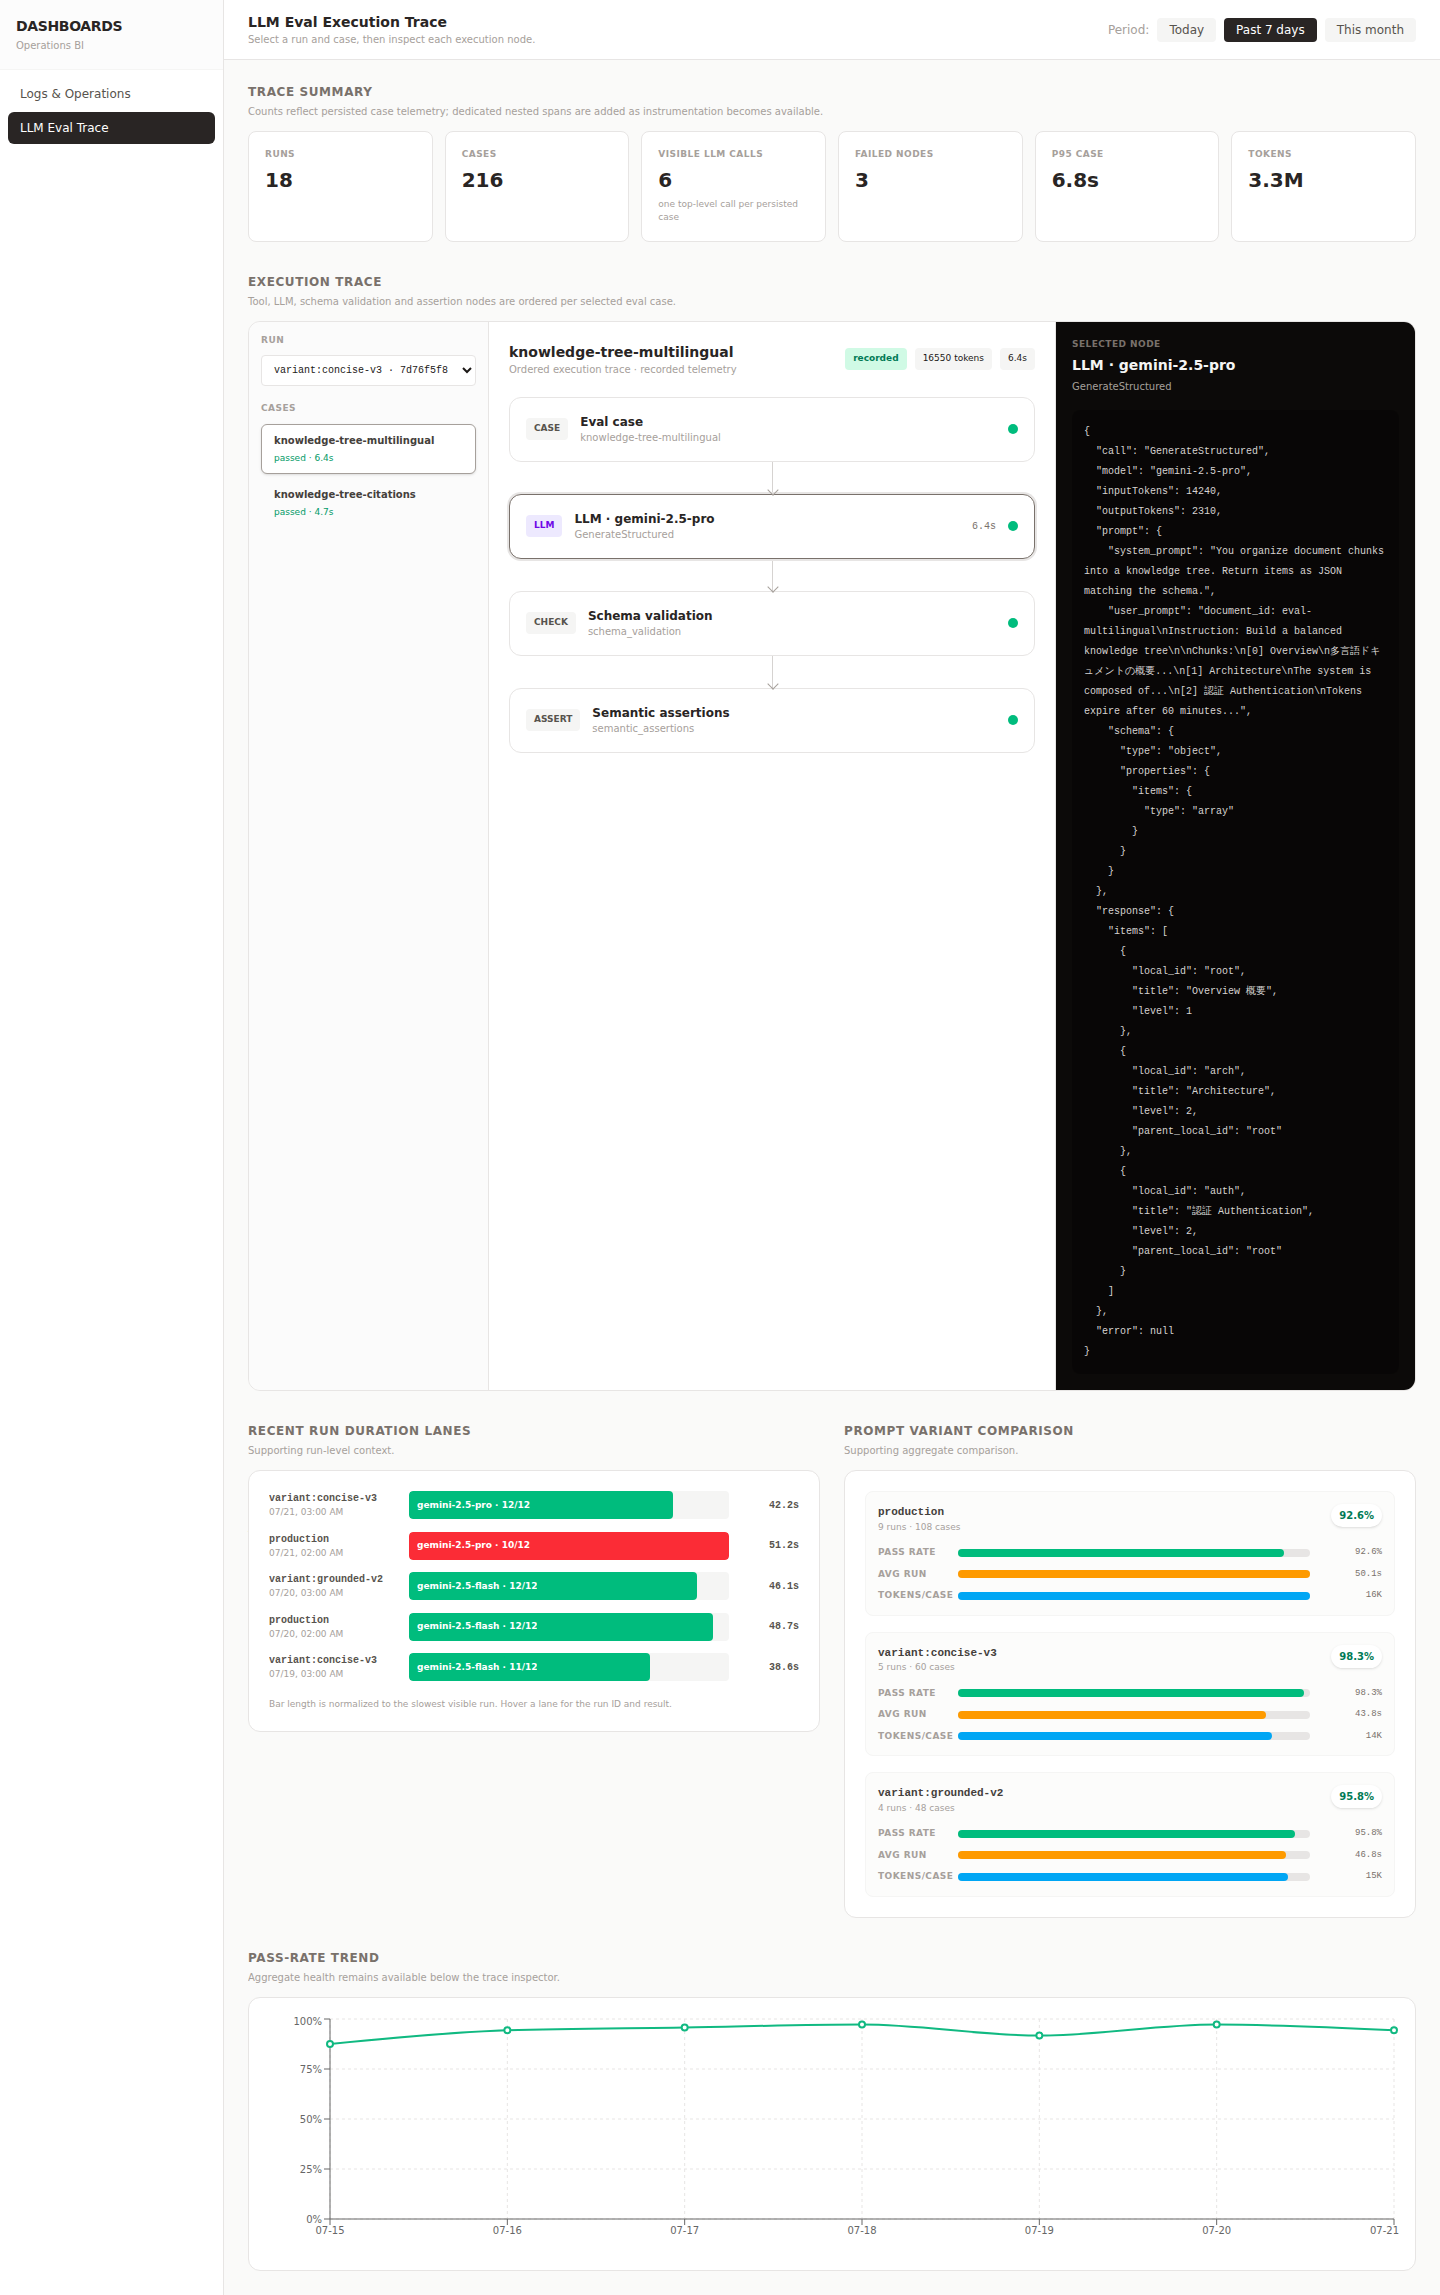
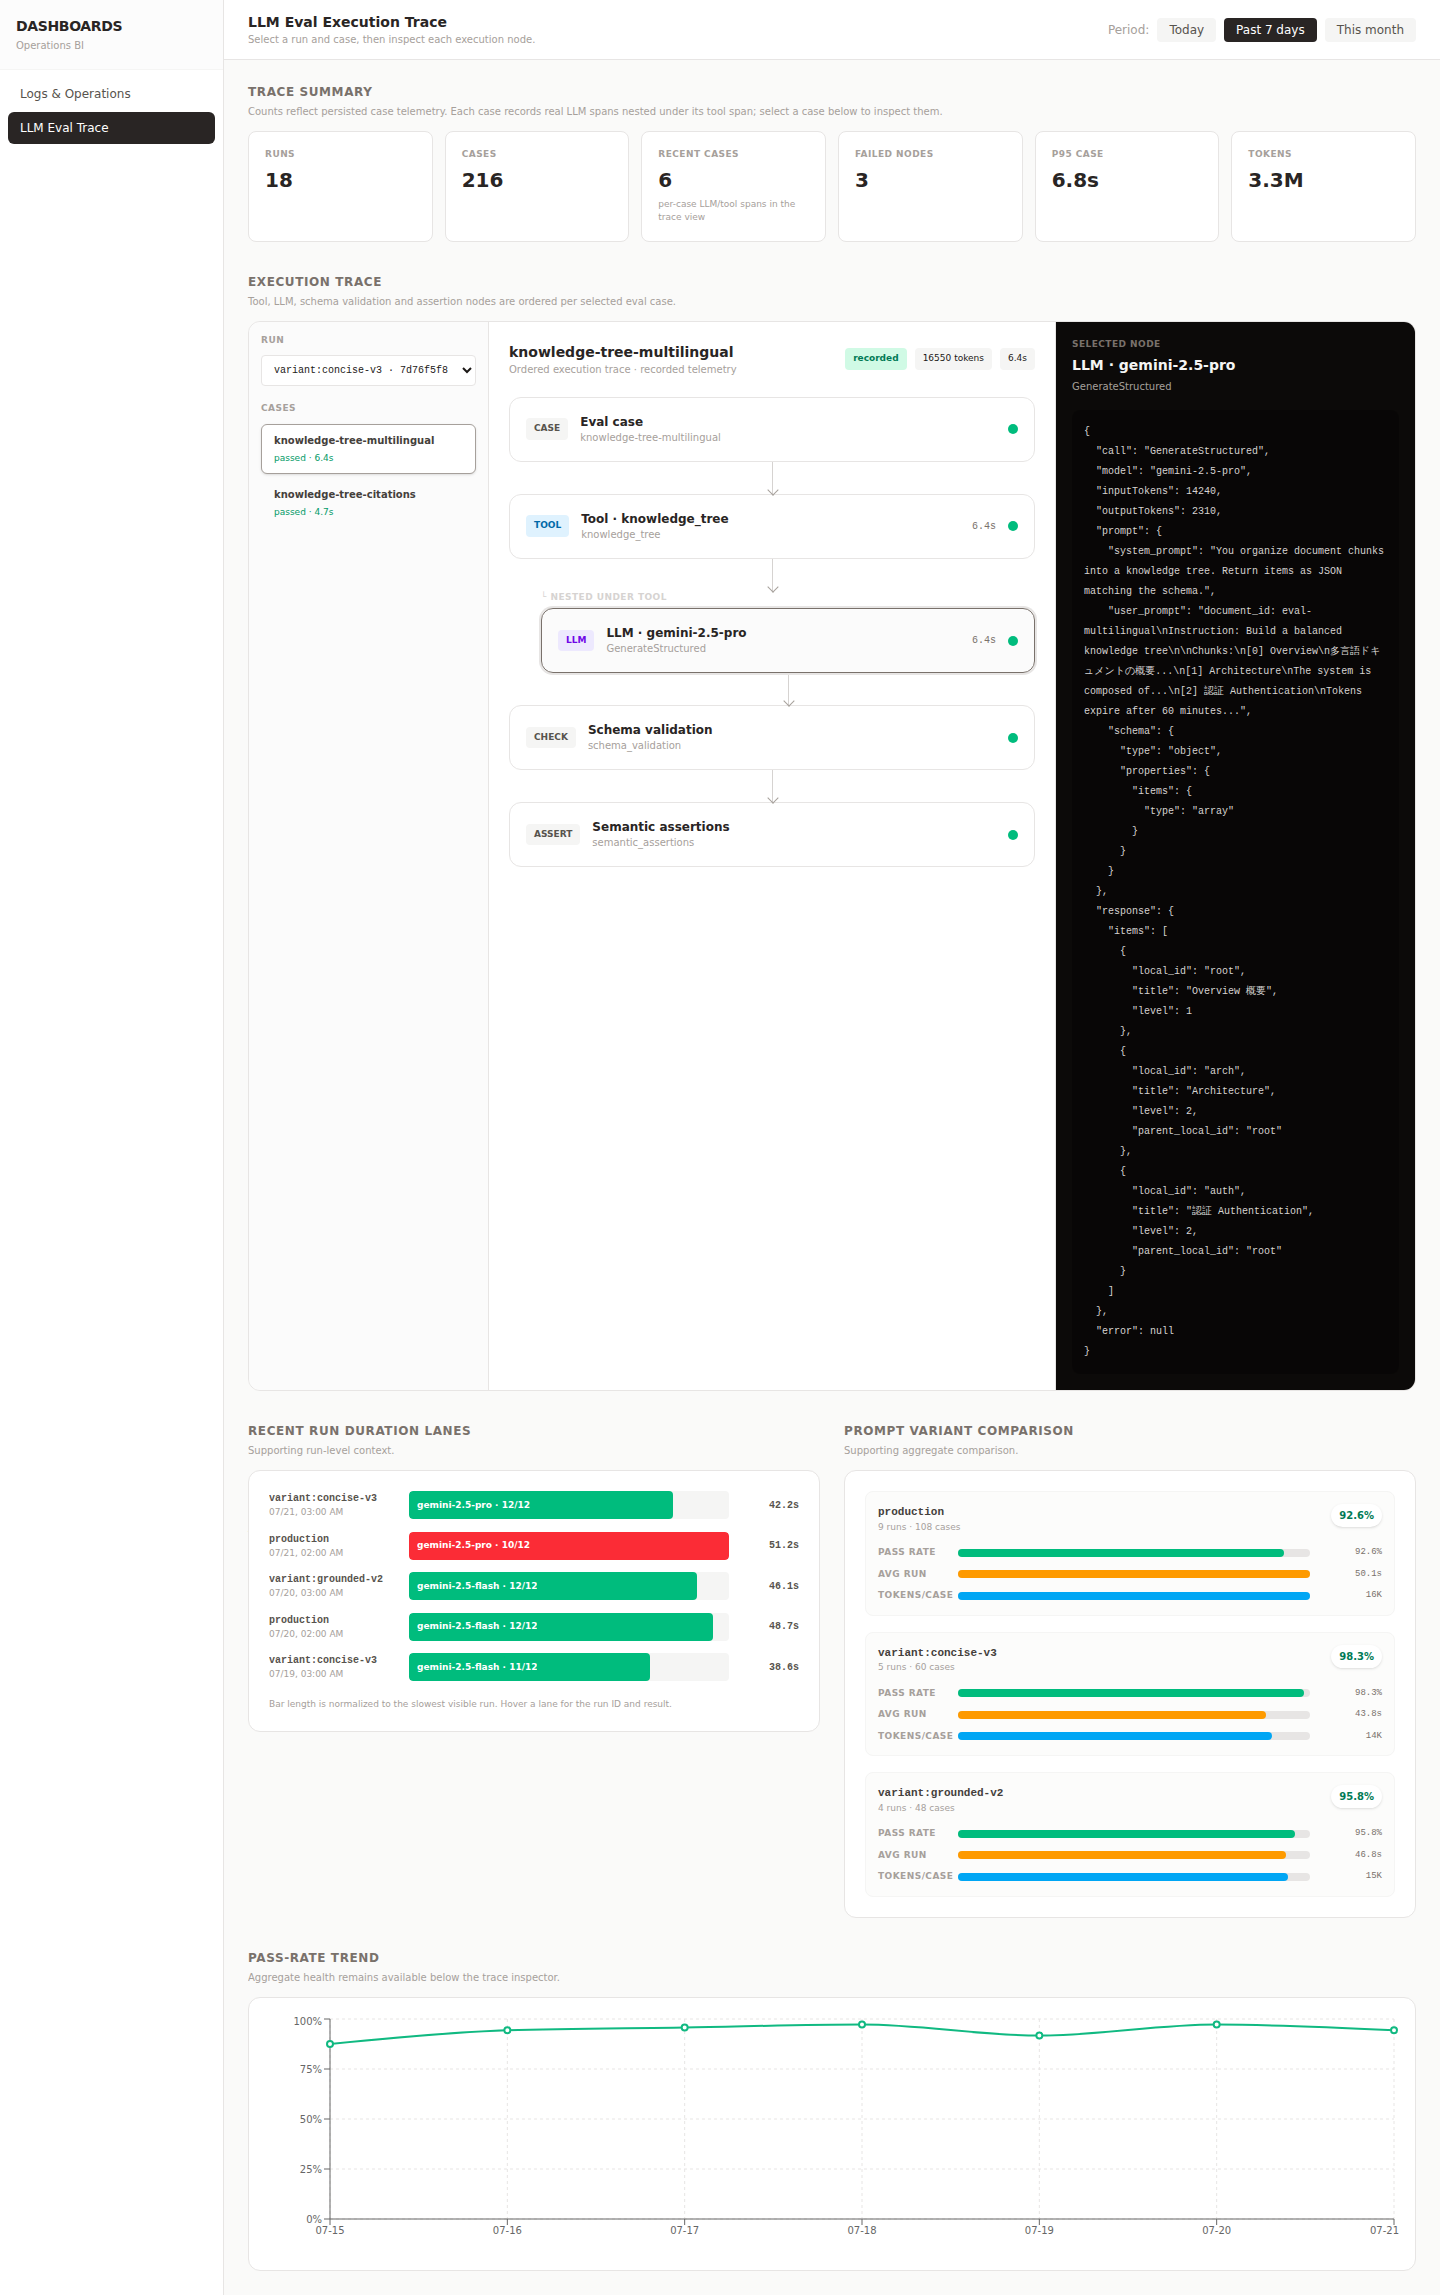
feat(eval): nest LLM spans under their tool span
Trace events are no longer flat. The runner opens a "tool" span before
running the tool and closes it after, and the TraceCollector now carries a
span stack: any LLM call recorded while a span is open inherits it as
parent_event_id. So a case's persisted trace is now a tree —

  tool: knowledge_tree
    └─ llm: GenerateStructured
  schema_validation        (top-level, post-tool)
  semantic_assertions      (top-level, post-tool)

- TraceCollector: BeginSpan/EndSpan + a stack; Record inherits the innermost
  open span as parent unless one is set explicitly.
- runCase opens the tool span around tool.Run; validation/assertion are
  recorded after it closes, so they stay top-level siblings.
- EvalExecutionTrace derives depth from the parent chain and indents nested
  nodes ("nested under tool").
- summary copy updated: nested spans are recorded now, not "coming soon".

Changed region(s): [[0.375, 0.2166, 0.5312, 0.3712], [0.6875, 0.2475, 0.7188, 0.3094], [0.4688, 0.0619, 0.5312, 0.0928]]

diff --git a/apps/monitor/ui/src/components/eval/EvalExecutionTrace.tsx b/apps/monitor/ui/src/components/eval/EvalExecutionTrace.tsx
@@ -13,6 +13,7 @@ type TraceNode = {
   subtitle: string;
   status: 'ok' | 'error' | 'unknown';
   durationMs?: number;
+  depth: number;
   details: Record<string, unknown>;
 };
 
@@ -34,17 +35,17 @@ function buildReconstructedNodes(row: EvalCaseRow): TraceNode[] {
   const executionFailed = Boolean(row.error) && !row.output;
   return [
     {
-      id: 'case', kind: 'case', title: 'Eval case', subtitle: row.caseName, status: 'ok',
+      id: 'case', kind: 'case', title: 'Eval case', subtitle: row.caseName, status: 'ok', depth: 0,
       details: { runId: row.runId, caseName: row.caseName, promptSource: row.promptSource, failedInput: row.failedInput },
     },
     {
       id: 'tool', kind: 'tool', title: `Tool · ${row.tool}`, subtitle: 'Top-level eval tool invocation',
-      status: executionFailed ? 'error' : 'ok', durationMs: row.durationMs,
+      status: executionFailed ? 'error' : 'ok', durationMs: row.durationMs, depth: 0,
       details: { tool: row.tool, output: row.output, error: row.error || null },
     },
     {
       id: 'llm', kind: 'llm', title: `LLM · ${row.model || 'unknown model'}`, subtitle: row.promptSource,
-      status: executionFailed ? 'error' : 'ok', durationMs: row.durationMs,
+      status: executionFailed ? 'error' : 'ok', durationMs: row.durationMs, depth: 1,
       details: {
         model: row.model, inputTokens: row.inputTokens, outputTokens: row.outputTokens,
         prompt: 'Not recorded — run predates trace instrumentation',
@@ -53,12 +54,12 @@ function buildReconstructedNodes(row: EvalCaseRow): TraceNode[] {
     },
     {
       id: 'validation', kind: 'validation', title: 'Schema validation', subtitle: row.schemaValid ? 'Output contract satisfied' : 'Output contract failed',
-      status: row.schemaValid ? 'ok' : 'error',
+      status: row.schemaValid ? 'ok' : 'error', depth: 0,
       details: { schemaValid: row.schemaValid, error: !row.schemaValid ? row.error : null },
     },
     {
       id: 'assertion', kind: 'assertion', title: 'Semantic assertions', subtitle: row.passed ? 'Expectations passed' : 'Expectation failed',
-      status: row.passed ? 'ok' : 'error',
+      status: row.passed ? 'ok' : 'error', depth: 0,
       details: { passed: row.passed, error: !row.passed ? row.error : null, output: row.output },
     },
   ];
@@ -69,10 +70,15 @@ function buildReconstructedNodes(row: EvalCaseRow): TraceNode[] {
 // prompt/response, tokens and duration.
 function buildTraceNodes(row: EvalCaseRow, events: EvalTraceEvent[]): TraceNode[] {
   const caseNode: TraceNode = {
-    id: 'case', kind: 'case', title: 'Eval case', subtitle: row.caseName, status: 'ok',
+    id: 'case', kind: 'case', title: 'Eval case', subtitle: row.caseName, status: 'ok', depth: 0,
     details: { runId: row.runId, caseIndex: row.caseIndex, caseName: row.caseName, promptSource: row.promptSource },
   };
+  // Depth from parent chain. Events arrive parent-first (ordered by sequence),
+  // so a parent's depth is always known before its children.
+  const depthById = new Map<string, number>();
   const eventNodes = events.map((ev): TraceNode => {
+    const depth = ev.parentEventId && depthById.has(ev.parentEventId) ? depthById.get(ev.parentEventId)! + 1 : 0;
+    depthById.set(ev.eventId, depth);
     const status: TraceNode['status'] = ev.error ? 'error' : 'ok';
     const title =
       ev.kind === 'llm' ? `LLM · ${ev.model || 'unknown model'}`
@@ -88,6 +94,7 @@ function buildTraceNodes(row: EvalCaseRow, events: EvalTraceEvent[]): TraceNode[
       subtitle: ev.error ? ev.error : ev.name,
       status,
       durationMs: ev.kind === 'llm' || ev.kind === 'tool' ? ev.durationMs : undefined,
+      depth,
       details,
     };
   });
@@ -170,8 +177,9 @@ export function EvalExecutionTrace({ runs, cases }: { runs: EvalRunRow[]; cases:
           </div>
           <div className="mx-auto max-w-xl">
             {nodes.map((node, index) => (
-              <div key={node.id}>
-                <button onClick={() => setNodeId(node.id)} className={`w-full rounded-xl border p-4 text-left transition ${selectedNode?.id === node.id ? 'border-stone-500 ring-2 ring-stone-200' : 'border-stone-200 hover:border-stone-300'} ${node.status === 'error' ? 'bg-red-50/60' : 'bg-white'}`}>
+              <div key={node.id} style={{ marginLeft: `${node.depth * 32}px` }}>
+                {node.depth > 0 && <p className="mb-1 text-[9px] font-semibold uppercase tracking-wider text-stone-300">└ nested under {node.kind === 'llm' ? 'tool' : 'parent'}</p>}
+                <button onClick={() => setNodeId(node.id)} className={`w-full rounded-xl border p-4 text-left transition ${selectedNode?.id === node.id ? 'border-stone-500 ring-2 ring-stone-200' : 'border-stone-200 hover:border-stone-300'} ${node.status === 'error' ? 'bg-red-50/60' : node.depth > 0 ? 'bg-stone-50/70' : 'bg-white'}`}>
                   <div className="flex items-center gap-3"><span className={`rounded px-2 py-1 text-[9px] font-bold ${node.kind === 'llm' ? 'bg-violet-100 text-violet-700' : node.kind === 'tool' ? 'bg-sky-100 text-sky-700' : 'bg-stone-100 text-stone-600'}`}>{kindLabel[node.kind]}</span><div className="min-w-0 flex-1"><p className="text-xs font-bold text-stone-800">{node.title}</p><p className="truncate text-[10px] text-stone-400">{node.subtitle}</p></div>{node.durationMs !== undefined && <span className="font-mono text-[10px] text-stone-500">{fmtMs(node.durationMs)}</span>}<span className={`h-2.5 w-2.5 rounded-full ${node.status === 'error' ? 'bg-red-500' : node.status === 'ok' ? 'bg-emerald-500' : 'bg-stone-300'}`} /></div>
                 </button>
                 {index < nodes.length - 1 && <div className="mx-auto h-8 w-px bg-stone-300"><div className="relative top-6 -left-[3px] h-2 w-2 rotate-45 border-b border-r border-stone-400" /></div>}

diff --git a/apps/monitor/ui/src/components/EvalDashboard.tsx b/apps/monitor/ui/src/components/EvalDashboard.tsx
@@ -105,11 +105,11 @@ export function EvalDashboard() {
         <div className="flex-1 overflow-y-auto p-6">
           {error && <p className="mb-4 rounded-lg border border-red-200 bg-red-50 px-4 py-3 text-sm text-red-700">{error}</p>}
           {loading || !data ? <p className="py-12 text-center text-sm text-stone-400">Loading eval traces…</p> : <>
-            <Section title="Trace summary" detail="Counts reflect persisted case telemetry; dedicated nested spans are added as instrumentation becomes available.">
+            <Section title="Trace summary" detail="Counts reflect persisted case telemetry. Each case records real LLM spans nested under its tool span; select a case below to inspect them.">
               <div className="grid grid-cols-2 gap-3 lg:grid-cols-6">
                 <Stat label="Runs" value={fmtNumber(data.totalRuns)} />
                 <Stat label="Cases" value={fmtNumber(data.totalCases)} />
-                <Stat label="Visible LLM calls" value={fmtNumber(llmCalls)} detail="one top-level call per persisted case" />
+                <Stat label="Recent cases" value={fmtNumber(llmCalls)} detail="per-case LLM/tool spans in the trace view" />
                 <Stat label="Failed nodes" value={fmtNumber(failedNodes)} />
                 <Stat label="p95 case" value={fmtMs(data.p95CaseDurationMs)} />
                 <Stat label="Tokens" value={fmtNumber(data.inputTokens + data.outputTokens)} />

diff --git a/apps/eval/runner/trace.go b/apps/eval/runner/trace.go
@@ -31,10 +31,16 @@ type TraceEvent struct {
 
 // TraceCollector collects events for the currently executing case. Eval cases
 // are intentionally executed sequentially, so a single collector can be reused.
+//
+// It maintains a span stack so nested work is recorded with the right parent:
+// a tool span is opened before the tool runs, and every LLM call the tool makes
+// while that span is open is recorded as its child (parent_event_id). This is
+// what turns the flat llm/validation/assertion list into a real tool → llm tree.
 type TraceCollector struct {
 	mu       sync.Mutex
 	sequence int
 	events   []TraceEvent
+	stack    []string // open parent span IDs, innermost last
 }
 
 func (c *TraceCollector) BeginCase() {
@@ -42,17 +48,65 @@ func (c *TraceCollector) BeginCase() {
 	defer c.mu.Unlock()
 	c.sequence = 0
 	c.events = nil
+	c.stack = nil
 }
 
 func (c *TraceCollector) Record(event TraceEvent) {
 	c.mu.Lock()
 	defer c.mu.Unlock()
+	c.recordLocked(event)
+}
+
+// recordLocked appends an event, assigning its sequence, id, and — unless the
+// caller set one explicitly — the innermost open span as its parent. Callers
+// must hold c.mu.
+func (c *TraceCollector) recordLocked(event TraceEvent) string {
 	c.sequence++
 	event.Sequence = c.sequence
 	if event.EventID == "" {
 		event.EventID = uuid.NewString()
 	}
+	if event.ParentEventID == "" && len(c.stack) > 0 {
+		event.ParentEventID = c.stack[len(c.stack)-1]
+	}
 	c.events = append(c.events, event)
+	return event.EventID
+}
+
+// BeginSpan records an open parent span (e.g. a tool invocation) and pushes it
+// onto the stack so subsequent events nest under it. The span is recorded
+// immediately — before its children — so the ordered sequence reads parent-first.
+// Pair every BeginSpan with EndSpan(id, ...).
+func (c *TraceCollector) BeginSpan(kind, name string) string {
+	c.mu.Lock()
+	defer c.mu.Unlock()
+	id := c.recordLocked(TraceEvent{Kind: kind, Name: name, StartedAt: time.Now().UTC()})
+	c.stack = append(c.stack, id)
+	return id
+}
+
+// EndSpan finalizes an open span: it pops the stack and fills in the span's
+// completion time, duration (from its recorded StartedAt) and error.
+func (c *TraceCollector) EndSpan(id, errStr string) {
+	c.mu.Lock()
+	defer c.mu.Unlock()
+	for i := len(c.stack) - 1; i >= 0; i-- {
+		if c.stack[i] == id {
+			c.stack = append(c.stack[:i], c.stack[i+1:]...)
+			break
+		}
+	}
+	now := time.Now().UTC()
+	for i := range c.events {
+		if c.events[i].EventID == id {
+			c.events[i].CompletedAt = now
+			c.events[i].DurationMS = now.Sub(c.events[i].StartedAt).Milliseconds()
+			if errStr != "" {
+				c.events[i].Error = errStr
+			}
+			return
+		}
+	}
 }
 
 // RecordValidation records the schema-validation span for the current case.

diff --git a/apps/eval/runner/trace_wiring_test.go b/apps/eval/runner/trace_wiring_test.go
@@ -45,11 +45,26 @@ func TestRunCase_CollectsTrace(t *testing.T) {
 		}
 		kinds = append(kinds, ev.Kind)
 	}
-	if len(kinds) != 3 || kinds[0] != "llm" || kinds[1] != "validation" || kinds[2] != "assertion" {
-		t.Fatalf("trace kinds = %v, want [llm validation assertion]", kinds)
+	if len(kinds) != 4 || kinds[0] != "tool" || kinds[1] != "llm" || kinds[2] != "validation" || kinds[3] != "assertion" {
+		t.Fatalf("trace kinds = %v, want [tool llm validation assertion]", kinds)
 	}
 
-	llmEv := res.Trace[0]
+	toolEv := res.Trace[0]
+	llmEv := res.Trace[1]
+	// The llm call must nest under the tool span; validation/assertion are
+	// top-level siblings recorded after the tool returned.
+	if llmEv.ParentEventID != toolEv.EventID {
+		t.Errorf("llm span parent = %q, want tool span %q", llmEv.ParentEventID, toolEv.EventID)
+	}
+	if res.Trace[2].ParentEventID != "" || res.Trace[3].ParentEventID != "" {
+		t.Errorf("validation/assertion should be top-level, got parents %q / %q", res.Trace[2].ParentEventID, res.Trace[3].ParentEventID)
+	}
+	if toolEv.ParentEventID != "" {
+		t.Errorf("tool span should be top-level, got parent %q", toolEv.ParentEventID)
+	}
+	if toolEv.DurationMS < 0 {
+		t.Errorf("tool span duration not finalized: %#v", toolEv)
+	}
 	if llmEv.Model != "fake" || llmEv.InputTokens != 3 || llmEv.OutputTokens != 4 {
 		t.Errorf("llm span usage not recorded: %#v", llmEv)
 	}

diff --git a/apps/eval/runner/runner.go b/apps/eval/runner/runner.go
@@ -207,8 +207,12 @@ func (r Runner) runCase(ctx context.Context, c Case, baseDir string, promptSourc
 	}
 
 	res := Result{CaseName: c.Name, Tool: c.Tool, PromptSource: promptSource}
+	var toolSpanID string
 	if r.Collector != nil {
 		r.Collector.BeginCase()
+		// Open the tool span before running so the LLM calls the tool makes are
+		// recorded as its children (parent_event_id), not flat siblings.
+		toolSpanID = r.Collector.BeginSpan("tool", c.Tool)
 	}
 	start := time.Now()
 	output, usage, toolErr := tool.Run(ctx, prepared.Raw)
@@ -216,6 +220,13 @@ func (r Runner) runCase(ctx context.Context, c Case, baseDir string, promptSourc
 	res.Model = usage.Model
 	res.InputTokens = usage.InputTokens
 	res.OutputTokens = usage.OutputTokens
+	if r.Collector != nil {
+		toolErrStr := ""
+		if toolErr != nil {
+			toolErrStr = toolErr.Error()
+		}
+		r.Collector.EndSpan(toolSpanID, toolErrStr)
+	}
 	if toolErr != nil {
 		res.Error = toolErr.Error()
 		res.FailedInput = prepared.Snapshot
